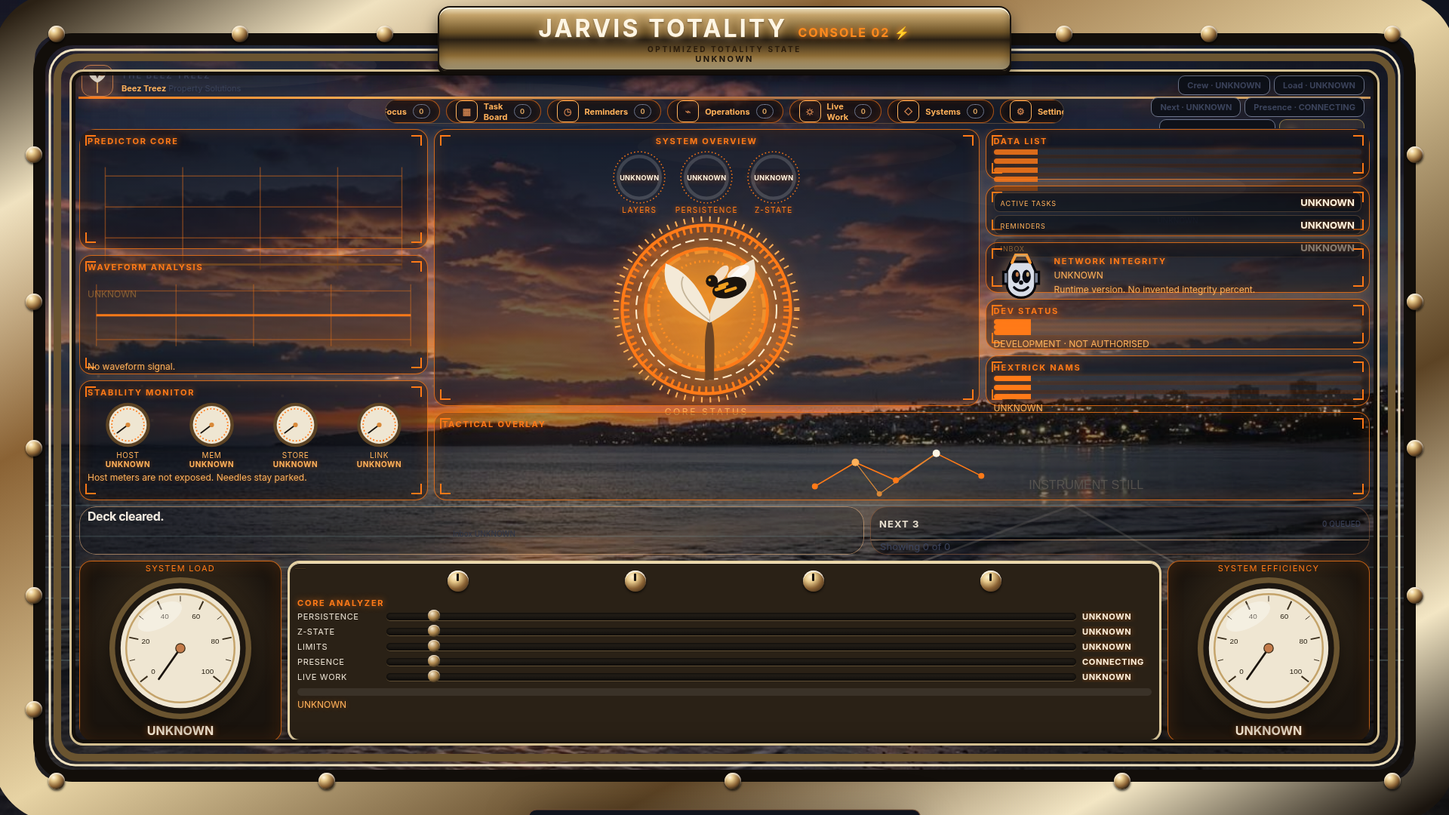
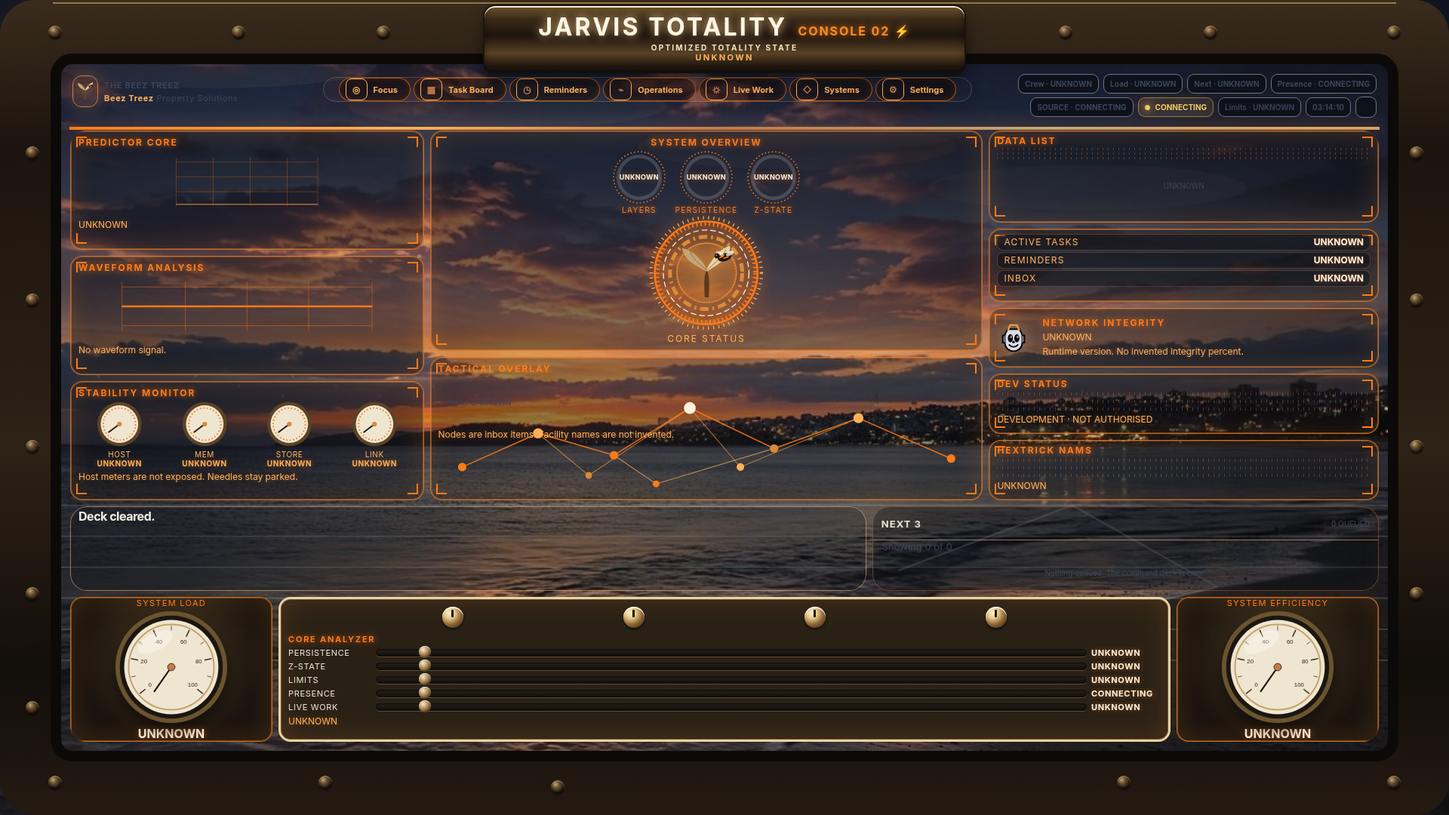
feat(hud): weather the Console 02 bezel and clear clipped chrome
Darken the frame to a filled bronze ring, keep every 1920 label fully visible, and replace placeholder bars with low-opacity tick tracks. The core mark is a bee and tree, panels read as smoked glass, and the tactical map fills its plate. Readings stay UNKNOWN.

diff --git a/typescript/src/mcp/dashboard-v1.html b/typescript/src/mcp/dashboard-v1.html
@@ -460,6 +460,7 @@
         pointer-events: none;
       }
       .bezel-lip {
+        display: none;
         position: fixed;
         inset: 92px;
         z-index: 8;
@@ -474,11 +475,11 @@
       .rivets { position: fixed; inset: 0; z-index: 9; pointer-events: none; }
       .rivet {
         position: absolute;
-        width: 22px;
-        height: 22px;
+        width: 18px;
+        height: 18px;
         border-radius: 50%;
-        background: radial-gradient(circle at 32% 28%, #fff6e0 0%, #e7c98a 22%, #8a6234 55%, #2a2014 78%, #0c0b09 100%);
-        box-shadow: inset 0 2px 2px rgba(255, 255, 255, 0.75), 0 2px 3px rgba(0, 0, 0, 0.7);
+        background: radial-gradient(circle at 35% 30%, #c4a574 0%, #6a5030 28%, #2a1c12 62%, #0c0a08 100%);
+        box-shadow: inset 0 1px 1px rgba(255, 230, 190, 0.45), inset 0 -2px 3px rgba(0, 0, 0, 0.65), 0 1px 2px rgba(0, 0, 0, 0.6);
       }
       .rivet:nth-child(1) { top: 34px; left: 64px; }
       .rivet:nth-child(2) { top: 34px; left: 16%; }
@@ -488,7 +489,7 @@
       .rivet:nth-child(6) { top: 34px; right: 64px; }
       .rivet:nth-child(7) { bottom: 34px; left: 64px; }
       .rivet:nth-child(8) { bottom: 34px; left: 22%; }
-      .rivet:nth-child(9) { bottom: 34px; left: 50%; }
+      .rivet:nth-child(9) { bottom: 28px; left: 38%; }
       .rivet:nth-child(10) { bottom: 34px; right: 22%; }
       .rivet:nth-child(11) { bottom: 34px; right: 64px; }
       .rivet:nth-child(12) { top: 18%; left: 34px; }
@@ -620,16 +621,23 @@
       .footer { font-size: 12px; min-height: 40px; }
       @media (min-width: 1400px) {
         html, body { height: 100%; overflow: hidden; }
-        .shell { width: 100%; height: 100vh; box-sizing: border-box; display: flex; flex-direction: column; padding: 128px 104px 96px; }
+        .shell { width: 100%; height: 100vh; box-sizing: border-box; display: flex; flex-direction: column; padding: 176px 96px 86px; }
         .hud-frame { flex: 1 1 auto; min-height: 0; display: flex; flex-direction: column; }
-        .topbar { flex: 0 0 auto; display: flex; justify-content: center; padding: 0 0 6px; }
-        .brand { position: fixed; z-index: 12; top: 86px; left: 108px; max-width: 250px; }
-        .top-actions { position: fixed; z-index: 12; top: 100px; right: 112px; width: 360px; max-width: 360px; display: flex; flex-wrap: wrap; justify-content: flex-end; gap: 3px 5px; max-height: 70px; overflow: hidden; }
-        .title-plate { position: fixed; top: 8px; left: 50%; transform: translateX(-50%); z-index: 13; }
-        .team-nav { width: min(900px, 48vw); }
-        .team-nav .nav-stack { flex-wrap: nowrap; }
-        .team-nav .rail-button, .team-chip, a.limits-now, .icon-button { min-height: 26px; }
-        .icon-button { width: 26px; }
+        .topbar { flex: 0 0 auto; display: flex; justify-content: center; padding: 0; min-height: 0; }
+        .brand { position: fixed; z-index: 14; top: 98px; left: 108px; width: 300px; max-width: 300px; overflow: visible; }
+        .brand .plaque { min-width: 0; }
+        .brand-kicker, .brand .plaque p { white-space: nowrap; line-height: 1.25; }
+        .mark { width: 34px; height: 34px; flex: 0 0 34px; }
+        .mark::before, .mark::after { display: none; }
+        .top-actions { position: fixed; z-index: 14; top: 96px; right: 108px; width: 470px; max-width: 470px; display: flex; flex-wrap: wrap; justify-content: flex-end; align-content: flex-start; gap: 4px 6px; max-height: none; overflow: visible; }
+        .title-plate { position: fixed; top: 6px; left: 50%; transform: translateX(-50%); z-index: 15; width: min(640px, 42vw); }
+        .team-nav { position: fixed; z-index: 14; top: 102px; left: 420px; width: 980px; overflow: visible; background: transparent; }
+        .team-nav .panel-content, .team-nav .nav-stack { overflow: visible; height: auto; }
+        .team-nav .nav-stack { flex-wrap: nowrap; justify-content: center; gap: 6px; }
+        .team-nav .rail-button { flex: 0 0 auto; width: auto; overflow: visible; padding: 0 10px; }
+        .team-nav .rail-button strong { white-space: nowrap; overflow: visible; text-overflow: clip; }
+        .team-nav .rail-button, .team-chip, a.limits-now, .icon-button { min-height: 28px; }
+        .icon-button { width: 28px; }
         .hud-grid { flex: 1 1 auto; min-height: 0; height: auto; }
         .workspace { min-height: 0; }
         .workspace > .panel-content { height: 100%; min-height: 0; display: flex; flex-direction: column; }
@@ -641,7 +649,9 @@
         #current-actions { margin-top: 4px; }
         #current-actions .primary-button { min-height: 26px; font-size: 12px; }
         .rail-button strong, .team-chip { font-size: 11px; }
-        .now-strip { max-height: 64px; overflow: hidden; }
+        .now-strip { max-height: none; overflow: visible; }
+        .now-strip .panel, .now-strip .panel-header, .now-strip .panel-content { overflow: visible; }
+        .now-strip .panel-header span, .now-strip .next-caption { white-space: nowrap; }
         .console-lower { margin-top: 6px; }
       }
       @media (max-width: 1120px) {
@@ -667,15 +677,15 @@
       }
       .title-plate {
         position: fixed;
-        top: 8px;
+        top: 6px;
         left: 50%;
         transform: translateX(-50%);
-        z-index: 13;
+        z-index: 15;
         margin: 0;
-        width: min(760px, 68vw);
+        width: min(640px, 42vw);
         padding: 8px 28px 7px;
         border-radius: 16px 16px 12px 12px;
-        background: linear-gradient(180deg, #f3e6c4 0%, #c4a36a 12%, #6e5428 40%, #2a2014 52%, #8d6c36 78%, #e7d3a4 100%);
+        background: linear-gradient(180deg, #6e542c 0%, #3a2918 22%, #1c140e 48%, #5a4224 76%, #2a1c12 100%);
         border: 2px solid #1a140e;
         box-shadow: inset 0 2px 0 rgba(255, 248, 226, 0.95), inset 0 -8px 12px rgba(0, 0, 0, 0.35), 0 5px 0 #120e0a, 0 12px 20px rgba(0, 0, 0, 0.55);
       }
@@ -683,9 +693,9 @@
       .wordmark { font-size: clamp(20px, 2vw, 32px); font-weight: 800; letter-spacing: 0.1em; color: #fff6e4; text-shadow: 0 0 12px rgba(255, 214, 150, 0.95), 0 1px 0 #5a4320, 0 2px 3px rgba(0, 0, 0, 0.55); white-space: nowrap; }
       .console-no { font-size: clamp(12px, 1vw, 16px); font-weight: 800; letter-spacing: 0.12em; color: #ff8a1e; text-shadow: 0 0 8px rgba(255, 140, 40, 0.95); white-space: nowrap; }
       .sub-plate { margin: 2px 0 0; letter-spacing: 0.22em; font-size: 11px; color: var(--brass); }
-      .title-plate .sub-plate { text-align: center; color: #2a1c0c; font-size: 10px; font-weight: 800; letter-spacing: 0.26em; text-shadow: none; }
+      .title-plate .sub-plate { text-align: center; color: #f0e2c0; font-size: 10px; font-weight: 800; letter-spacing: 0.22em; text-shadow: none; }
       .live-state { margin: 0; font-size: 12px; font-weight: 800; letter-spacing: 0.18em; color: var(--cream); }
-      .title-plate .live-state { text-align: center; font-size: 11px; letter-spacing: 0.22em; color: #1c140c; text-shadow: none; }
+      .title-plate .live-state { text-align: center; font-size: 11px; letter-spacing: 0.22em; color: #ffb15a; text-shadow: none; }
       .tree-mark { width: 42px; height: 42px; }
       body[data-console-view="focus"] .left-rail,
       body[data-console-view="focus"] .right-rail,
@@ -695,7 +705,7 @@
         display: grid;
         grid-template-columns: minmax(210px, 0.78fr) minmax(0, 1.22fr) minmax(230px, 0.86fr);
         grid-template-rows: minmax(0, 1fr) minmax(112px, 0.32fr);
-        grid-template-areas: "left center right" "left tac tac";
+        grid-template-areas: "left center right" "left tac right";
         gap: 8px;
         align-items: stretch;
         min-height: 0;
@@ -709,7 +719,8 @@
       .console-lower { display: grid; grid-template-columns: minmax(220px, 268px) minmax(0, 1fr) minmax(220px, 268px); gap: 8px; margin-top: 8px; align-items: stretch; }
       .plate {
         position: relative;
-        background-color: rgba(6, 10, 16, 0.5);
+        overflow: hidden;
+        background-color: rgba(12, 16, 22, 0.46);
         background-image:
           linear-gradient(#ff7a18, #ff7a18), linear-gradient(#ff7a18, #ff7a18),
           linear-gradient(#ff7a18, #ff7a18), linear-gradient(#ff7a18, #ff7a18),
@@ -721,7 +732,7 @@
         border: 1px solid rgba(255, 122, 24, 0.8);
         border-radius: 16px;
         padding: 8px 10px 8px;
-        box-shadow: inset 0 0 22px rgba(255, 122, 24, 0.16), 0 0 12px rgba(217, 137, 56, 0.22);
+        box-shadow: inset 0 0 32px rgba(255, 150, 50, 0.18), inset 0 1px 0 rgba(255, 214, 160, 0.22), 0 0 16px rgba(217, 137, 56, 0.16);
       }
       .plate h2, .plate h3 { margin: 0 0 4px; font-size: 11px; letter-spacing: 0.16em; font-variant: small-caps; color: #ff7a18; text-shadow: 0 0 8px rgba(255, 122, 24, 0.75); }
       .plate p, .plate small { margin: 4px 0 0; color: #ffb15a; font-size: 12px; text-shadow: 0 0 6px rgba(255, 122, 24, 0.35); }
@@ -733,11 +744,12 @@
       .now-strip { margin-top: 8px; }
       .now-strip .mission-panel, .now-strip .queue-panel { min-height: 0; }
       .workspace.panel { background: transparent; border-color: transparent; box-shadow: none; }
-      .overview-plate { display: flex; flex-direction: column; align-items: center; justify-content: space-between; height: 100%; min-height: 0; }
-      .core-stage { position: relative; display: grid; place-items: center; width: min(248px, 100%); max-height: 100%; aspect-ratio: 1; margin: 0 auto; flex: 0 0 auto; height: auto; }
+      .overview-plate { display: grid; grid-template-rows: auto auto minmax(0, 1fr) auto; align-items: center; justify-items: center; height: 100%; min-height: 0; overflow: hidden; }
+      .core-stage { position: relative; display: grid; place-items: center; width: auto; height: 100%; max-width: 100%; max-height: 100%; aspect-ratio: 1; margin: 0 auto; }
       .chart { width: 100%; flex: 1 1 auto; min-height: 64px; }
       .core-rings { position: absolute; inset: 0; width: 100%; height: 100%; filter: drop-shadow(0 0 10px rgba(255, 122, 24, 0.65)); }
-      .core-emblem { position: relative; z-index: 1; width: 84%; height: auto; filter: drop-shadow(0 0 18px rgba(255, 160, 40, 0.95)); }
+      .core-emblem { position: relative; z-index: 1; width: 54%; height: auto; filter: drop-shadow(0 0 10px rgba(255, 170, 70, 0.8)); }
+      .core-status-label { position: relative; z-index: 2; margin: 2px 0 0; }
       .overview-row { display: grid; grid-template-columns: repeat(3, minmax(0, 1fr)); gap: 6px; margin-bottom: 2px; }
       .ring-gauge { display: grid; justify-items: center; text-align: center; }
       .ring-gauge span { font-size: 10px; letter-spacing: 0.14em; color: #ff7a18; text-shadow: 0 0 6px rgba(255, 122, 24, 0.65); }
@@ -750,16 +762,17 @@
       .data-row { display: grid; grid-template-columns: minmax(0, 1fr) 48px minmax(0, 72px); gap: 6px; align-items: center; min-height: 22px; font-size: 11px; }
       .data-row span, .data-row b { min-width: 0; overflow: hidden; text-overflow: ellipsis; white-space: nowrap; }
       .data-row i { display: block; height: 6px; border-radius: 99px; background: var(--brass); min-width: 0; }
-      .data-chrome { display: grid; gap: 5px; margin: 4px 0; }
-      .data-chrome i { display: block; height: 7px; border-radius: 99px; background: linear-gradient(90deg, rgba(255,122,24,0.85) 0 12%, rgba(255,255,255,0.08) 12%); box-shadow: 0 0 6px rgba(255,122,24,0.3); }
+      .data-chrome { display: grid; gap: 7px; margin: 6px 0 2px; }
+      .data-chrome i, .hex-ticks i, .dev-bars i { display: block; height: 5px; border-radius: 2px; background: repeating-linear-gradient(90deg, rgba(255,122,24,0.42) 0 1px, transparent 1px 7px); box-shadow: none; opacity: 0.8; }
       .plate:has(#data-list .data-row) .data-chrome { display: none; }
       .tile-row { display: grid; grid-template-columns: 1fr; gap: 4px; }
       .tile { min-width: 0; overflow: hidden; display: grid; grid-template-columns: minmax(0, 1fr) auto; align-items: baseline; gap: 8px; background: rgba(8, 10, 14, 0.4); border: 1px solid rgba(255, 186, 120, 0.22); border-radius: 8px; padding: 4px 8px; text-align: left; }
       .tile b { font-size: 13px; overflow: hidden; text-overflow: ellipsis; white-space: nowrap; }
       .tile span { min-width: 0; overflow: hidden; text-overflow: ellipsis; white-space: nowrap; font-size: 9px; letter-spacing: 0.1em; color: #ffb15a; }
-      .network-plate { display: grid; grid-template-columns: 72px minmax(0, 1fr); gap: 8px; align-items: center; }
-      .network-plate .mission-mascot { position: relative; inset: auto; width: 72px; height: 72px; }
-      .mission-mascot svg { width: 72px; height: 72px; }
+      .network-plate { display: grid; grid-template-columns: 52px minmax(0, 1fr); gap: 8px; align-items: center; }
+      .network-plate .mission-mascot { position: relative; inset: auto; width: 52px; height: 52px; }
+      .network-plate h2, .network-plate p, .network-plate small { position: relative; }
+      .mission-mascot svg { width: 52px; height: 52px; }
       .tac-map { display: flex; flex-wrap: wrap; gap: 8px; min-height: 72px; }
       .tac-node { border: 1px solid var(--brass); border-radius: 999px; padding: 4px 8px; font-size: 12px; }
       .analyzer { display: grid; gap: 6px; }
@@ -774,12 +787,12 @@
       .gauge-face svg { width: min(198px, 100%); height: auto; filter: drop-shadow(0 10px 10px rgba(0, 0, 0, 0.55)); }
       .gauge-face span { letter-spacing: 0.12em; font-size: 11px; color: #ff7a18; }
       .analyzer-plate { background-color: #2a2116; background-image: linear-gradient(180deg, #8a6840 0%, #3a2c18 28%, #16120e 70%, #4a3a24 100%); border: 3px solid #e7d3a4; box-shadow: inset 0 1px 0 #fff1d0, 0 8px 16px rgba(0, 0, 0, 0.4); }
-      .hex-ticks { display: grid; gap: 5px; }
-      .hex-ticks i, .dev-bars i { display: block; height: 7px; border-radius: 99px; background: linear-gradient(90deg, #ff7a18 0 10%, rgba(255, 255, 255, 0.08) 10%); box-shadow: 0 0 6px rgba(255, 122, 24, 0.35); }
-      .tac-plate { background-color: rgba(6, 10, 16, 0.28); }
-      .tac-chart { width: 100%; height: 100%; min-height: 78px; display: block; }
-      .tac-map { min-height: 0; }
-      .level { height: 10px; border-radius: 99px; background: rgba(255,255,255,0.08); overflow: hidden; margin-top: 8px; }
+      .hex-ticks, .dev-bars { display: grid; gap: 6px; margin-top: 4px; }
+      .tac-plate { background-color: rgba(8, 12, 18, 0.34); min-height: 0; }
+      .tac-chart { position: absolute; left: 10px; right: 10px; top: 26px; bottom: 22px; width: auto; height: auto; min-height: 0; }
+      .tac-map { position: relative; z-index: 1; min-height: 0; }
+      .tac-plate > p { position: relative; z-index: 1; }
+      .level { display: none; }
       .level i { display: block; height: 100%; width: 0; background: #ff7a18; }
       @media (max-width: 1399px) {
         .brand, .top-actions { position: static; width: auto; max-width: none; max-height: none; }
@@ -789,6 +802,61 @@
         .console-deck, .console-lower { grid-template-columns: 1fr; }
         .console-deck { grid-template-areas: "left" "center" "right" "tac"; grid-template-rows: auto; }
       }
+      @media (min-width: 1400px) {
+        .shell { padding: 168px 92px 96px; }
+        .topbar { flex: 0 0 0px; height: 0; min-height: 0; overflow: visible; padding: 0; margin: 0; border: 0; }
+        body[data-console-view="focus"] .hud-grid {
+          flex: 1 1 auto; min-height: 0; height: 100%;
+          grid-template-columns: minmax(0, 1fr);
+          grid-template-rows: minmax(0, 1fr);
+        }
+        body[data-console-view="focus"] .workspace { min-height: 0; height: 100%; display: flex; flex-direction: column; }
+        .workspace > .panel-content { flex: 1 1 auto; height: 100%; min-height: 0; }
+        #view-focus.active { flex: 1 1 auto; min-height: 0; height: 100%; gap: 8px; }
+        .console-deck {
+          flex: 1 1 auto; min-height: 0;
+          grid-template-rows: minmax(0, 1.2fr) minmax(120px, 0.78fr);
+        }
+        .console-col > .plate { flex: 1 1 0; min-height: 0; overflow: hidden; }
+        .col-right > .plate:first-child { flex: 1.65 1 0; }
+        .chart { min-height: 0; flex: 1 1 auto; height: auto; max-height: none; }
+        .now-strip { flex: 0 0 auto; margin: 0; max-height: 112px; }
+        .now-strip .mission-panel, .now-strip .queue-panel { max-height: 112px; overflow: hidden; }
+        .console-lower { flex: 0 0 auto; margin: 0; }
+        .gauge-face { padding: 0; }
+        .gauge-face svg { width: min(156px, 100%); }
+        .analyzer { gap: 4px; }
+        .analyzer-row { gap: 6px; }
+        .overview-plate { align-content: center; }
+        .core-stage { width: auto; height: 100%; max-width: 100%; max-height: 100%; aspect-ratio: 1; justify-self: center; align-self: center; }
+        .col-left .chart { width: 100%; height: 84px; }
+        .plate h2 { margin: 0 0 2px; font-size: 12px; line-height: 1.15; }
+        .tile { padding: 2px 8px; }
+        .tile-row { gap: 2px; }
+        .plate { box-shadow: inset 0 0 36px rgba(255, 150, 50, 0.16), inset 0 0 0 1px rgba(255, 196, 130, 0.28), 0 0 18px rgba(217, 137, 56, 0.12); }
+        .core-status-label { display: block; margin: 6px 0 0; letter-spacing: 0.16em; }
+        .core-emblem { width: 68%; }
+        .toast:empty { display: none; }
+        .col-right > .plate:nth-child(2) { flex: 1.25 1 0; }
+        .tile b, .tile span { font-size: 12px; line-height: 1.15; }
+        .brand { top: 100px; left: 96px; width: 320px; max-width: 320px; display: flex; align-items: center; gap: 8px; overflow: visible; }
+        .brand .plaque { flex: 1 1 auto; width: auto; min-width: 0; overflow: visible; }
+        .brand-kicker, .brand .plaque p { overflow: visible; text-overflow: clip; font-size: 11px; letter-spacing: 0.06em; }
+        .team-nav { top: 102px; left: 428px; width: 860px; }
+        .team-nav .rail-count { display: none; }
+        .team-nav .nav-stack { gap: 4px; }
+        .team-nav .rail-button { min-height: 30px; padding: 0 8px; }
+        .top-actions { top: 98px; right: 96px; width: 500px; max-width: 500px; max-height: 70px; gap: 4px 6px; }
+        .top-actions .pill, .top-actions .team-chip, .top-actions .source-pill, .top-actions a.limits-now { font-size: 10px; padding: 0 8px; min-height: 26px; white-space: nowrap; }
+        .data-chrome { gap: 3px; margin: 2px 0 0; }
+        .data-chrome i { height: 3px; }
+        .hex-ticks i, .dev-bars i { height: 4px; }
+        .col-right > .plate { padding-top: 6px; padding-bottom: 6px; }
+        .tile { padding: 3px 8px; }
+        .network-plate .mission-mascot, .mission-mascot svg { width: 44px; height: 44px; }
+        .tac-chart { top: 22px; bottom: 28px; left: 8px; right: 8px; }
+        .tac-plate > p { margin: 0; }
+      }
     </style>
   </head>
   <body data-backdrop-severity="UNKNOWN" data-console-view="focus"><!-- JARVIS // OPERATOR CONSOLE · LANDSCAPE COMMAND CENTRE -->
@@ -797,21 +865,17 @@
     <div class="bezel" aria-hidden="true"></div>
     <svg class="bezel-art" viewBox="0 0 1920 1080" preserveAspectRatio="none" aria-hidden="true">
       <defs>
-        <linearGradient id="frame-brass" x1="0" y1="0" x2="1" y2="1">
-          <stop offset="0" stop-color="#2a2014"/>
-          <stop offset="0.12" stop-color="#f0e2c0"/>
-          <stop offset="0.28" stop-color="#8a6234"/>
-          <stop offset="0.5" stop-color="#e7d3a4"/>
-          <stop offset="0.72" stop-color="#5c4324"/>
-          <stop offset="0.88" stop-color="#f3e6c4"/>
-          <stop offset="1" stop-color="#1a140e"/>
+        <linearGradient id="frame-brass" x1="0" y1="0" x2="0" y2="1">
+          <stop offset="0" stop-color="#3a2c1c"/>
+          <stop offset="0.18" stop-color="#1c140e"/>
+          <stop offset="0.55" stop-color="#2e2116"/>
+          <stop offset="0.82" stop-color="#120e0a"/>
+          <stop offset="1" stop-color="#241a12"/>
         </linearGradient>
       </defs>
-      <rect x="4" y="4" width="1912" height="1072" rx="72" fill="none" stroke="#070605" stroke-width="18"/>
-      <rect x="18" y="18" width="1884" height="1044" rx="60" fill="none" stroke="url(#frame-brass)" stroke-width="56"/>
-      <rect x="52" y="52" width="1816" height="976" rx="44" fill="none" stroke="#120e0a" stroke-width="16"/>
-      <rect x="66" y="66" width="1788" height="948" rx="34" fill="none" stroke="#f0e2c0" stroke-width="3"/>
-      <rect x="76" y="76" width="1768" height="928" rx="28" fill="none" stroke="#6a5430" stroke-width="10"/>
+      <path fill="url(#frame-brass)" fill-rule="evenodd" d="M46 0 H1874 A46 46 0 0 1 1920 46 V1034 A46 46 0 0 1 1874 1080 H46 A46 46 0 0 1 0 1034 V46 A46 46 0 0 1 46 0 Z M96 78 H1824 A22 22 0 0 1 1846 100 V980 A22 22 0 0 1 1824 1002 H96 A22 22 0 0 1 74 980 V100 A22 22 0 0 1 96 78 Z"/>
+      <path fill="none" stroke="#9a7848" stroke-width="2" d="M70 4 H1850"/>
+      <path fill="none" stroke="#0c0a08" stroke-width="14" d="M96 78 H1824 A22 22 0 0 1 1846 100 V980 A22 22 0 0 1 1824 1002 H96 A22 22 0 0 1 74 980 V100 A22 22 0 0 1 96 78 Z"/>
     </svg>
     <div class="bezel-lip" aria-hidden="true"></div>
     <div class="hud-photo" aria-hidden="true"></div>
@@ -826,7 +890,7 @@
         <div class="top-glow"></div>
         <header class="topbar">
           <div class="brand">
-            <svg class="mark tree-mark" viewBox="0 0 64 64" aria-hidden="true"><path d="M32 58 V34" stroke="#d7a15f" stroke-width="3"/><path d="M32 36 C18 30 10 18 16 8 C26 14 30 22 32 28 C34 22 38 14 48 8 C54 18 46 30 32 36Z" fill="#e8dfd0"/><ellipse cx="42" cy="18" rx="6" ry="4" fill="#c47b4a"/></svg>
+            <svg class="mark tree-mark" viewBox="0 0 64 64" aria-hidden="true"><path d="M30 54 C30 42 29 36 32 28 C35 36 34 42 34 54 Z" fill="#6b4424"/><path d="M32 30 C22 26 12 20 12 10 C22 12 28 20 32 28 Z" fill="#c4a574"/><path d="M32 30 C42 24 54 16 52 8 C42 12 36 20 32 28 Z" fill="#e7d3a4"/><ellipse cx="46" cy="18" rx="6" ry="3.2" fill="#1a140e" transform="rotate(-16 46 18)"/><path d="M42 17 h4 M45 19 h4" stroke="#ff7a18" stroke-width="1.4" stroke-linecap="round"/></svg>
             <div class="plaque">
               <p class="brand-kicker">THE BEEZ TREEZ</p>
               <p><b>Beez Treez</b> Property Solutions</p>
@@ -942,26 +1006,28 @@
                           <circle class="spin reverse" cx="120" cy="120" r="76" fill="none" stroke="#d98938" stroke-width="8" stroke-dasharray="18 8 4 8"/>
                           <circle cx="120" cy="120" r="62" fill="none" stroke="#ff7a18" stroke-width="3" stroke-dasharray="2 4"/>
                         </svg>
-                        <svg class="core-emblem" viewBox="0 0 160 160" aria-hidden="true"><circle cx="80" cy="80" r="62" fill="rgba(255,150,40,0.38)" stroke="#ff7a18" stroke-width="3"/><g transform="translate(16 4) scale(1.12)">
-                          <path d="M56 132 C56 104 54 90 60 74 C66 90 64 104 64 132 Z" fill="#6b4424"/>
-                          <path d="M60 80 C38 70 14 54 20 26 C42 34 54 54 60 72 Z" fill="#f4ead8"/>
-                          <path d="M60 80 C82 68 108 48 100 22 C78 32 66 54 60 72 Z" fill="#efe2cc"/>
-                          <path d="M60 78 C44 66 30 50 36 38" fill="none" stroke="#c4b498" stroke-width="1.2"/>
-                          <ellipse cx="86" cy="34" rx="11" ry="5" fill="rgba(255,255,255,0.8)" transform="rotate(-28 86 34)"/>
-                          <ellipse cx="70" cy="36" rx="10" ry="4.5" fill="rgba(255,255,255,0.72)" transform="rotate(-50 70 36)"/>
-                          <ellipse cx="78" cy="48" rx="16" ry="9" fill="#1a140e" transform="rotate(-18 78 48)"/>
-                          <path d="M66 46 h8 M74 50 h9 M70 44 h7" stroke="#f0a020" stroke-width="3" stroke-linecap="round" transform="rotate(-18 78 48)"/>
-                          <circle cx="62" cy="42" r="5.5" fill="#1a140e"/>
-                          <circle cx="60" cy="41" r="1.2" fill="#f0a020"/>
-                        </g></svg>
+                        <svg class="core-emblem" viewBox="0 0 120 120" aria-hidden="true">
+                          <circle cx="60" cy="60" r="46" fill="rgba(255,140,40,0.16)" stroke="#d98938" stroke-width="1.5"/>
+                          <path d="M57 98 C56 78 55 68 60 54 C65 68 64 78 63 98 Z" fill="#5c3a1e"/>
+                          <path d="M60 58 C44 50 24 40 22 22 C40 26 52 40 60 54 Z" fill="#c4a574"/>
+                          <path d="M60 58 C76 48 98 36 96 18 C78 24 68 40 60 54 Z" fill="#e7d3a4"/>
+                          <path d="M60 56 C48 46 36 36 34 26" fill="none" stroke="#8a6840" stroke-width="1"/>
+                          <path d="M60 56 C74 44 86 34 90 24" fill="none" stroke="#8a6840" stroke-width="1"/>
+                          <ellipse cx="88" cy="36" rx="11" ry="6" fill="#1a140e" transform="rotate(-18 88 36)"/>
+                          <path d="M80 34 h6 M86 37 h7 M83 32 h5" stroke="#ff7a18" stroke-width="2" stroke-linecap="round" transform="rotate(-18 88 36)"/>
+                          <ellipse cx="96" cy="30" rx="7" ry="3.2" fill="rgba(255,255,255,0.72)" transform="rotate(-30 96 30)"/>
+                          <ellipse cx="80" cy="30" rx="6" ry="2.8" fill="rgba(255,255,255,0.55)" transform="rotate(20 80 30)"/>
+                          <circle cx="76" cy="34" r="4" fill="#1a140e"/>
+                          <circle cx="75" cy="33" r="1" fill="#ffb15a"/>
+                        </svg>
                       </div>
-                      <p class="sub-plate">CORE STATUS</p>
+                      <p class="sub-plate core-status-label">CORE STATUS</p>
                     </section>
                   </div>
                   <div class="console-col col-right">
                     <section class="plate">
                       <h2>DATA LIST</h2>
-                      <div class="data-chrome" aria-hidden="true"><i></i><i></i><i></i><i></i><i></i></div>
+                      <div class="data-chrome" aria-hidden="true"><i></i><i></i><i></i></div>
                       <div id="data-list"></div>
                     </section>
                     <section class="plate">
@@ -1004,7 +1070,7 @@
 
                     <section class="plate tac-plate col-tac">
                       <h2>TACTICAL OVERLAY</h2>
-                      <svg class="tac-chart" viewBox="0 0 280 100" aria-hidden="true"><path d="M24 72 L78 40 L132 64 L186 28 L246 58" fill="none" stroke="#ff7a18" stroke-width="1.6"/><path d="M78 40 L110 82 L186 28" fill="none" stroke="#d98938" stroke-width="1.2"/><circle cx="24" cy="72" r="4" fill="#ff7a18"/><circle cx="78" cy="40" r="5" fill="#ffb15a"/><circle cx="132" cy="64" r="4" fill="#ff7a18"/><circle cx="186" cy="28" r="5" fill="#fff6e4"/><circle cx="246" cy="58" r="4" fill="#ff7a18"/><circle cx="110" cy="82" r="3.5" fill="#d98938"/></svg>
+                      <svg class="tac-chart" viewBox="0 0 640 150" preserveAspectRatio="xMidYMid meet" aria-hidden="true"><path d="M30 110 L120 70 L210 96 L300 40 L400 88 L500 52 L610 100" fill="none" stroke="#ff7a18" stroke-width="1.4" opacity="0.85"/><path d="M120 70 L180 120 L300 40 L360 110 L500 52" fill="none" stroke="#d98938" stroke-width="1.1" opacity="0.7"/><path d="M210 96 L260 130 L400 88" fill="none" stroke="rgba(255,177,90,0.7)" stroke-width="1"/><circle cx="30" cy="110" r="5" fill="#ff7a18"/><circle cx="120" cy="70" r="6" fill="#ffb15a"/><circle cx="210" cy="96" r="5" fill="#ff7a18"/><circle cx="300" cy="40" r="7" fill="#fff1dc"/><circle cx="400" cy="88" r="5" fill="#d98938"/><circle cx="500" cy="52" r="6" fill="#ffb15a"/><circle cx="610" cy="100" r="5" fill="#ff7a18"/><circle cx="180" cy="120" r="4" fill="#d98938"/><circle cx="260" cy="130" r="4" fill="#ff7a18"/><circle cx="360" cy="110" r="4.5" fill="#ffb15a"/></svg>
                       <div class="tac-map" id="tactical-map"></div>
                       <p>Nodes are inbox items. Facility names are not invented.</p>
                     </section>
@@ -2329,7 +2395,7 @@
             });
             ctx.fillStyle = ink(pal.trace, 0.75);
             ctx.font = Math.max(12, Math.floor(w / 120)) + "px sans-serif";
-            ctx.fillText(still ? "INSTRUMENT STILL" : "INSTRUMENT LIVE", w * 0.71, h * 0.6);
+            ctx.fillText(still ? "INSTRUMENT STILL" : "INSTRUMENT LIVE", 36, h - 14);
           }
           function loop(time) {
             if (document.hidden) { raf = 0; return; }

diff --git a/typescript/docs/ROADMAP.md b/typescript/docs/ROADMAP.md
@@ -3,11 +3,11 @@
 ## Console 02 HUD (2026-10-02)
 
 The same operator widget is now the JARVIS TOTALITY Console 02 frame: a
-chamfered riveted brass bezel, a photographic dusk coast under smoked glass,
-a square core medallion, and cream-dial load gauges flanking the Core Analyzer.
-Gauges without a Jarvis meter stay UNKNOWN with the needle parked. Instrument
-chrome (grids, ticks, parked needles, an unlabelled tactical sketch) is drawn
-even when the reading is UNKNOWN. `GET /hud` and `GET /api/v1/hud/snapshot`
+dark weathered bronze bezel with shaded rivets, a photographic dusk coast under
+smoked glass, a square bee-and-tree medallion, and cream-dial load gauges
+flanking the Core Analyzer. Gauges without a Jarvis meter stay UNKNOWN with the
+needle parked. Instrument chrome (grids, low-opacity tick tracks, parked
+needles, an unlabelled tactical map) is drawn even when the reading is UNKNOWN. `GET /hud` and `GET /api/v1/hud/snapshot`
 are loopback-only and read-only. Screenshots: `docs/screenshots/`.
 
 ## Team Board HUD (2026-10-01)

diff --git a/typescript/docs/operators/hud.md b/typescript/docs/operators/hud.md
@@ -14,8 +14,8 @@ does not inject a sample snapshot.
 
 ## Layout
 
-Console 02 is the 55-inch landscape frame: a chamfered brass bezel drawn as
-an SVG stroke (so the coast stays visible), heavy rivets, and a domed title
+Console 02 is the 55-inch landscape frame: a dark weathered bronze bezel drawn as
+a filled SVG ring (so the coast stays visible through the opening), shaded rivets, and a domed title
 plate `JARVIS TOTALITY` / `CONSOLE 02` that breaks the top edge. The engraved
 sub-plate reads `OPTIMIZED TOTALITY STATE`. The live reading under it is
 `status.status`, or `UNKNOWN` until status arrives. Smoked glass with amber
